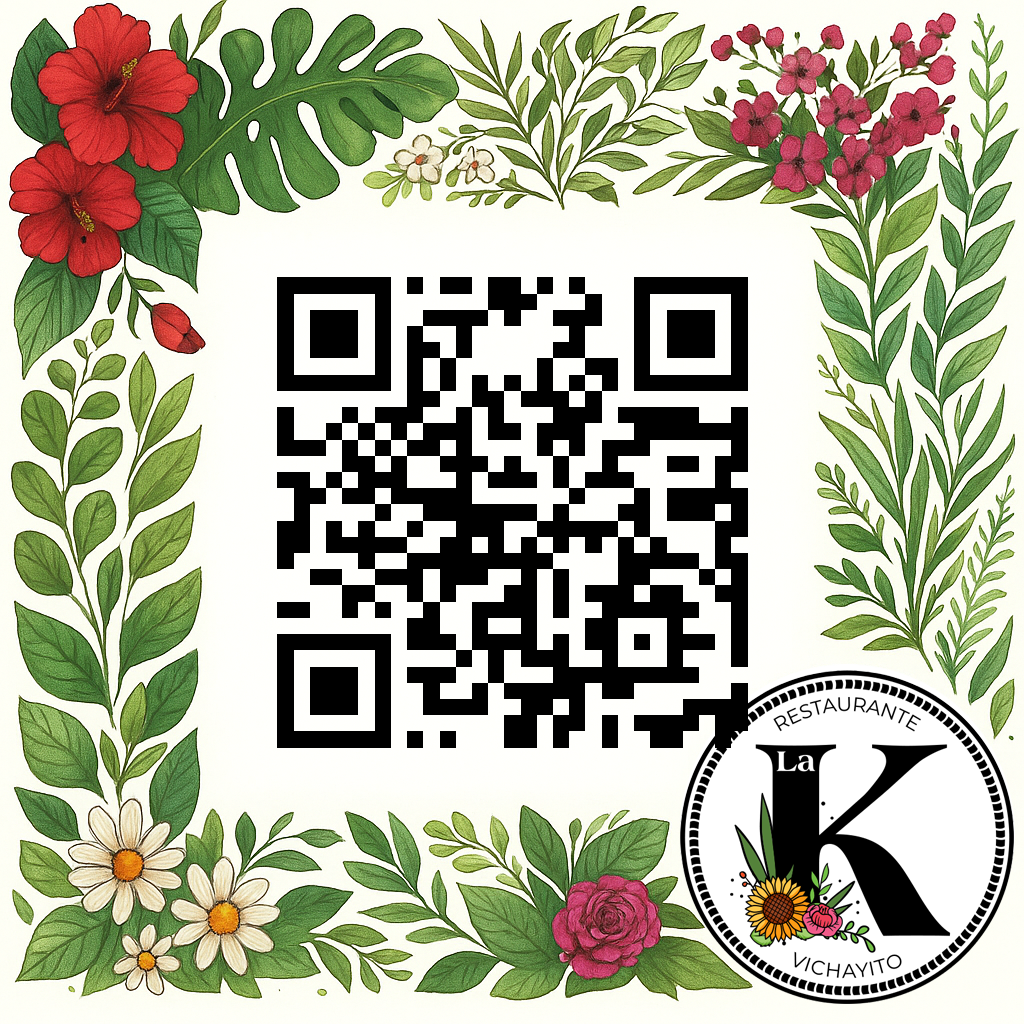
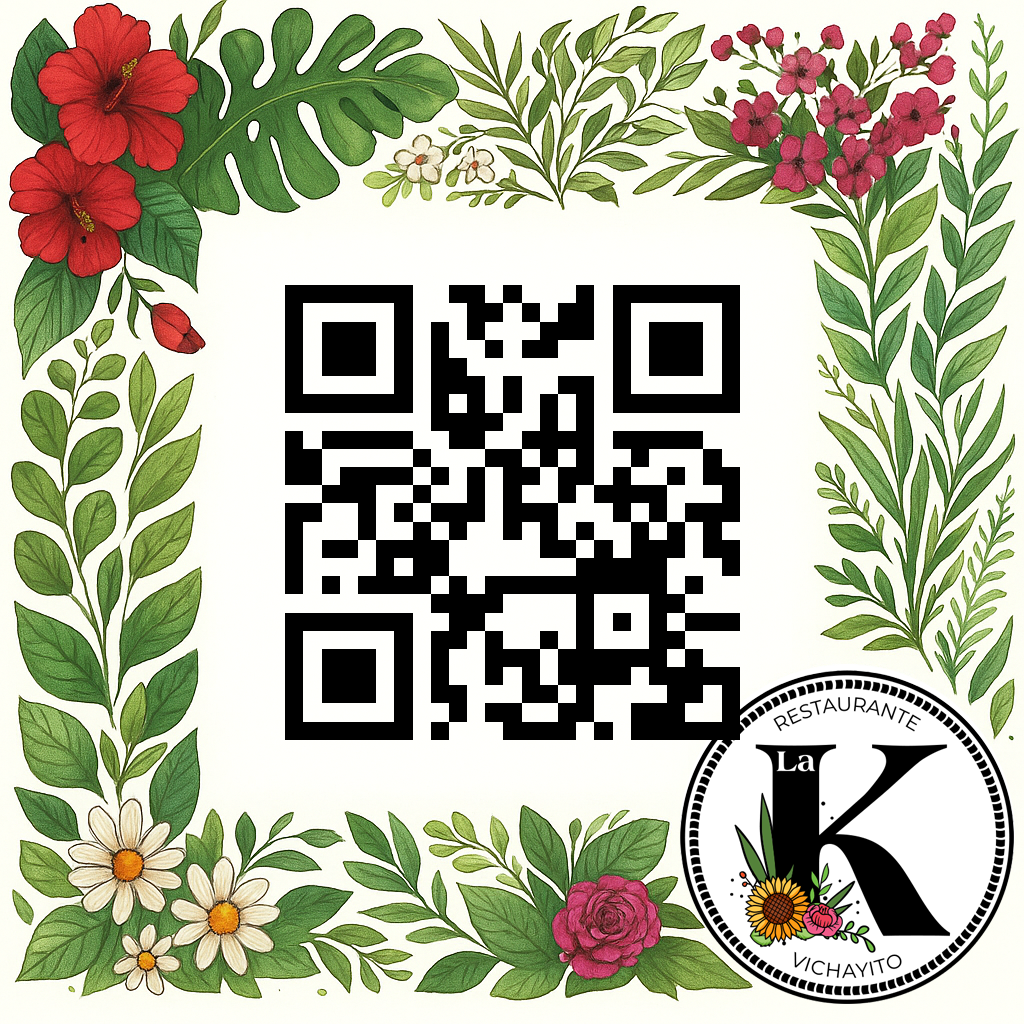
la carta de la K tiene nuevo y unico qr

Changed region(s): [[0.25, 0.25, 0.75, 0.75]]

diff --git a/src/app/la-k/page.tsx b/src/app/la-k/page.tsx
@@ -16,7 +16,7 @@ export default async function LaK() {
     process.env.API_INTERNAL_URL ||
     (process.env.NODE_ENV === "development"
       ? "http://localhost:3000"
-      : "https://viw-carta.vercel.app");
+      : "https://viw-carta.com");
 
   const res = await fetch(`${baseUrl}/api/public/menu/${subdomain}`, {
     next: { tags: [`menu-${subdomain}`] },
@@ -41,7 +41,7 @@ export default async function LaK() {
   // Aseguramos que tenga al menos un plato
   // const platoDelDia = platoDelDiaCategory?.meals?.[0];
   return (
-    <div className=" max-h-screen">
+    <div className=" min-h-screen">
       <Header restaurant={data.restaurant} />
       {/* {platoDelDia && (
         <PlatoDelDia

diff --git a/src/app/la-k/components/DecorativeBorder.tsx b/src/app/la-k/components/DecorativeBorder.tsx
@@ -7,7 +7,7 @@ interface DecorativeFrameProps {
 
 export default function DecorativeFrame({ children }: DecorativeFrameProps) {
   return (
-    <div className="relative  w-full max-w-8xl mx-auto aspect-[3/4] md:aspect-[4/3] flex items-center justify-center overflow-hidden">
+    <div className="relative bg-white  w-full max-w-8xl mx-auto aspect-[3/4] md:aspect-[4/3] flex items-center justify-center overflow-hidden">
       {/* Marco SVG: mantiene proporción */}
       <div className="absolute inset-0">
         <Image

diff --git a/src/app/backoffice/page.tsx b/src/app/backoffice/page.tsx
@@ -1,5 +1,5 @@
 "use client";
-import Master from "@/components/ui/master";
+import Master from "@/components/ui/Master";
 import { Button } from "@/components/ui/button";
 import { useRouter } from "next/navigation";
 export default function DashboardPage() {

diff --git a/src/app/globals.css b/src/app/globals.css
@@ -56,7 +56,7 @@
 
 :root {
   --radius: 0;
-  --background: #ffffff;
+  --background: #000800;
   --foreground: #d7f9f1;
   --card: #041b15;
   --card-foreground: #d7f9f1;
